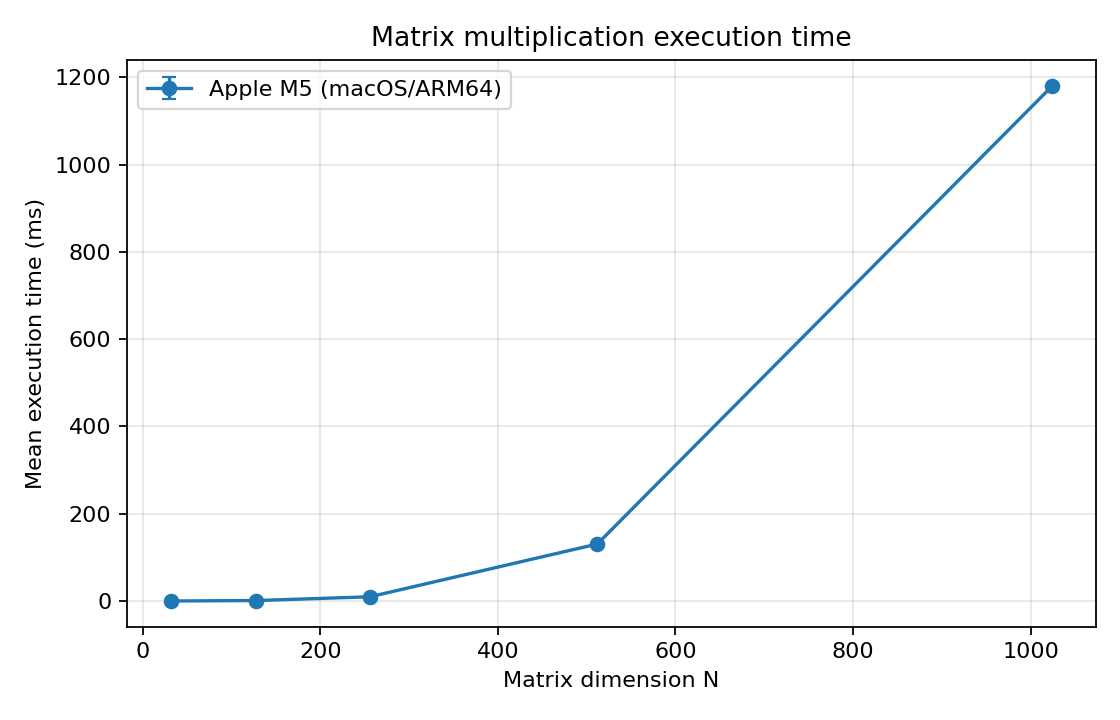
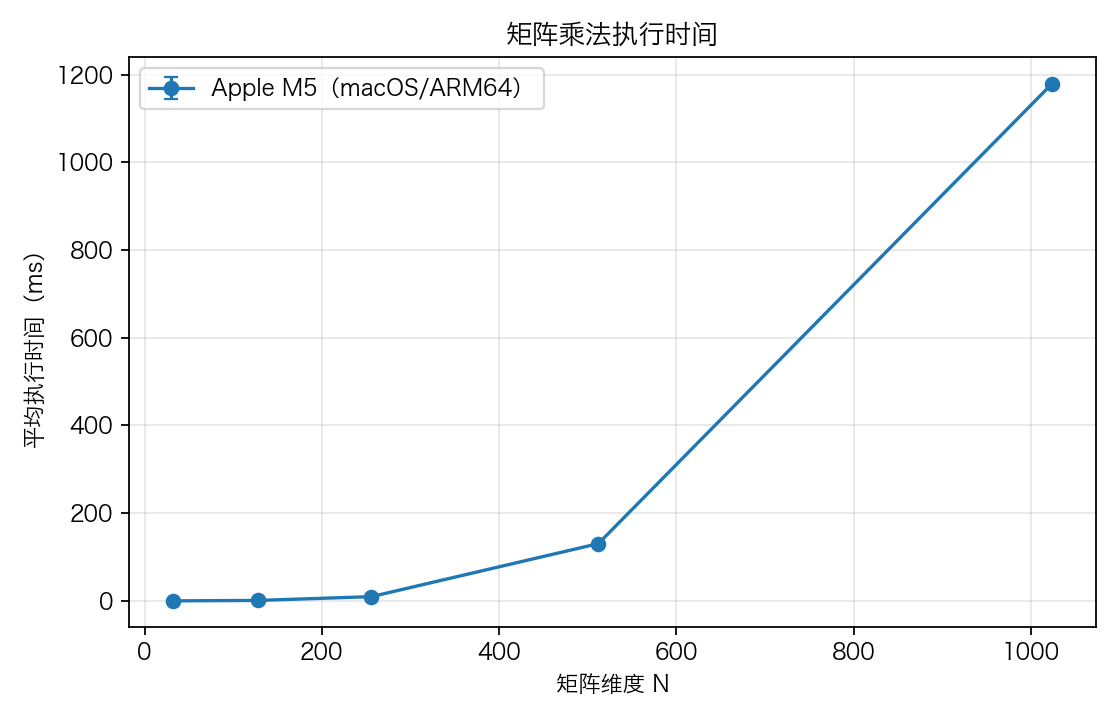
i18n: localize comparison charts

diff --git a/scripts/plot.py b/scripts/plot.py
@@ -14,7 +14,21 @@ import pandas as pd
 
 ROOT = Path(__file__).resolve().parents[1]
 PLATFORM_KEYS = ("macos-arm64", "windows-x86_64")
-PLATFORM_LABELS = {"macos-arm64": "Apple M5 (macOS/ARM64)", "windows-x86_64": "Intel Core i5-12400F (Windows/x86-64)"}
+PLATFORM_LABELS = {"macos-arm64": "Apple M5（macOS/ARM64）", "windows-x86_64": "Intel Core i5-12400F（Windows/x86-64）"}
+BENCHMARK_LABELS = {"sieve": "筛法", "quicksort": "快速排序", "matrix": "矩阵乘法", "memory": "内存访问"}
+VARIANT_LABELS = {
+    "sequential": "顺序访问",
+    "random": "随机访问",
+    "serial": "单线程",
+    "parallel": "多线程",
+    "eratosthenes": "埃拉托斯特尼筛法",
+    "hoare": "Hoare 快速排序",
+}
+
+# PingFang SC ships with macOS. The later fallbacks also cover common Windows
+# and Linux environments, preserving Chinese labels across both test hosts.
+plt.rcParams["font.sans-serif"] = ["PingFang SC", "Hiragino Sans GB", "Microsoft YaHei", "SimHei", "DejaVu Sans"]
+plt.rcParams["axes.unicode_minus"] = False
 
 
 def load_summaries() -> dict[str, pd.DataFrame]:
@@ -47,7 +61,7 @@ def matrix_time(summaries: dict[str, pd.DataFrame], output: Path) -> None:
         axis.errorbar(rows["size"], rows["time_mean_ms"], yerr=rows["time_std_ms"].fillna(0), marker="o", capsize=3,
                       label=PLATFORM_LABELS[key])
         has_data = True
-    axis.set(xlabel="Matrix dimension N", ylabel="Mean execution time (ms)", title="Matrix multiplication execution time")
+    axis.set(xlabel="矩阵维度 N", ylabel="平均执行时间（ms）", title="矩阵乘法执行时间")
     axis.grid(True, alpha=0.3)
     if has_data:
         axis.legend()
@@ -66,7 +80,7 @@ def matrix_gflops(summaries: dict[str, pd.DataFrame], output: Path) -> None:
         axis.errorbar(rows["size"], rows["metric_mean"], yerr=rows["metric_std"].fillna(0), marker="o", capsize=3,
                       label=PLATFORM_LABELS[key])
         has_data = True
-    axis.set(xlabel="Matrix dimension N", ylabel="GFLOPS", title="Matrix multiplication throughput")
+    axis.set(xlabel="矩阵维度 N", ylabel="GFLOPS", title="矩阵乘法浮点性能")
     axis.grid(True, alpha=0.3)
     if has_data:
         axis.legend()
@@ -94,8 +108,9 @@ def scaling(summaries: dict[str, pd.DataFrame], output: Path, column: str, ylabe
         largest_thread = max(largest_thread, int(rows["threads"].max()))
         has_data = True
     if column == "speedup":
-        axis.plot([1, largest_thread], [1, largest_thread], "k--", label="Ideal speedup")
-    axis.set(xlabel="Thread count", ylabel=ylabel, title=ylabel + " for matrix multiplication")
+        axis.plot([1, largest_thread], [1, largest_thread], "k--", label="理想加速比")
+    title = "矩阵乘法多核加速比" if column == "speedup" else "矩阵乘法并行效率"
+    axis.set(xlabel="线程数", ylabel=ylabel, title=title)
     axis.grid(True, alpha=0.3)
     if has_data:
         axis.legend()
@@ -112,10 +127,11 @@ def memory_performance(summaries: dict[str, pd.DataFrame], output: Path) -> None
             rows = summary[(summary["benchmark"] == "memory") & (summary["variant"] == variant)].sort_values("size")
             if rows.empty:
                 continue
-            axis.plot(rows["size"], rows["metric_mean"], style, marker="o", label=f"{PLATFORM_LABELS[key]} — {variant}")
+            axis.plot(rows["size"], rows["metric_mean"], style, marker="o",
+                      label=f"{PLATFORM_LABELS[key]} — {VARIANT_LABELS[variant]}")
             has_data = True
     axis.set_xscale("log", base=2)
-    axis.set(xlabel="Working set (bytes, log scale)", ylabel="Million accesses / second", title="Memory access performance")
+    axis.set(xlabel="工作集大小（字节，对数坐标）", ylabel="百万次访问 / 秒", title="内存访问性能")
     axis.grid(True, which="both", alpha=0.3)
     if has_data:
         axis.legend(fontsize=8)
@@ -130,11 +146,16 @@ def overall_comparison(output: Path) -> None:
         save_or_skip(figure, output / "relative_performance.png", False)
         return
     rows = comparison.copy()
-    rows["label"] = rows.apply(lambda row: f"{row['benchmark']}:{row['variant']}\n{int(row['size'])}, t={int(row['threads'])}", axis=1)
+    rows["label"] = rows.apply(
+        lambda row: f"{BENCHMARK_LABELS.get(row['benchmark'], row['benchmark'])}:"
+                    f"{VARIANT_LABELS.get(row['variant'], row['variant'])}\n"
+                    f"{int(row['size'])}，线程={int(row['threads'])}",
+        axis=1,
+    )
     axis.bar(range(len(rows)), rows["speedup_m5"], color="#4C78A8")
     axis.axhline(1.0, color="black", linewidth=1)
     axis.set_xticks(range(len(rows)), rows["label"], rotation=60, ha="right")
-    axis.set(ylabel="Speedup of M5 = T(i5-12400F) / T(M5)", title="Relative performance by workload")
+    axis.set(ylabel="M5 相对性能 = T(i5-12400F) / T(M5)", title="不同测试负载的相对性能")
     axis.grid(True, axis="y", alpha=0.3)
     save_or_skip(figure, output / "relative_performance.png", True)
 
@@ -145,8 +166,8 @@ def main() -> None:
     summaries = load_summaries()
     matrix_time(summaries, output)
     matrix_gflops(summaries, output)
-    scaling(summaries, output, "speedup", "Speedup", "matrix_multicore_speedup.png")
-    scaling(summaries, output, "parallel_efficiency", "Parallel efficiency", "matrix_parallel_efficiency.png")
+    scaling(summaries, output, "speedup", "加速比", "matrix_multicore_speedup.png")
+    scaling(summaries, output, "parallel_efficiency", "并行效率", "matrix_parallel_efficiency.png")
     memory_performance(summaries, output)
     overall_comparison(output)
 
